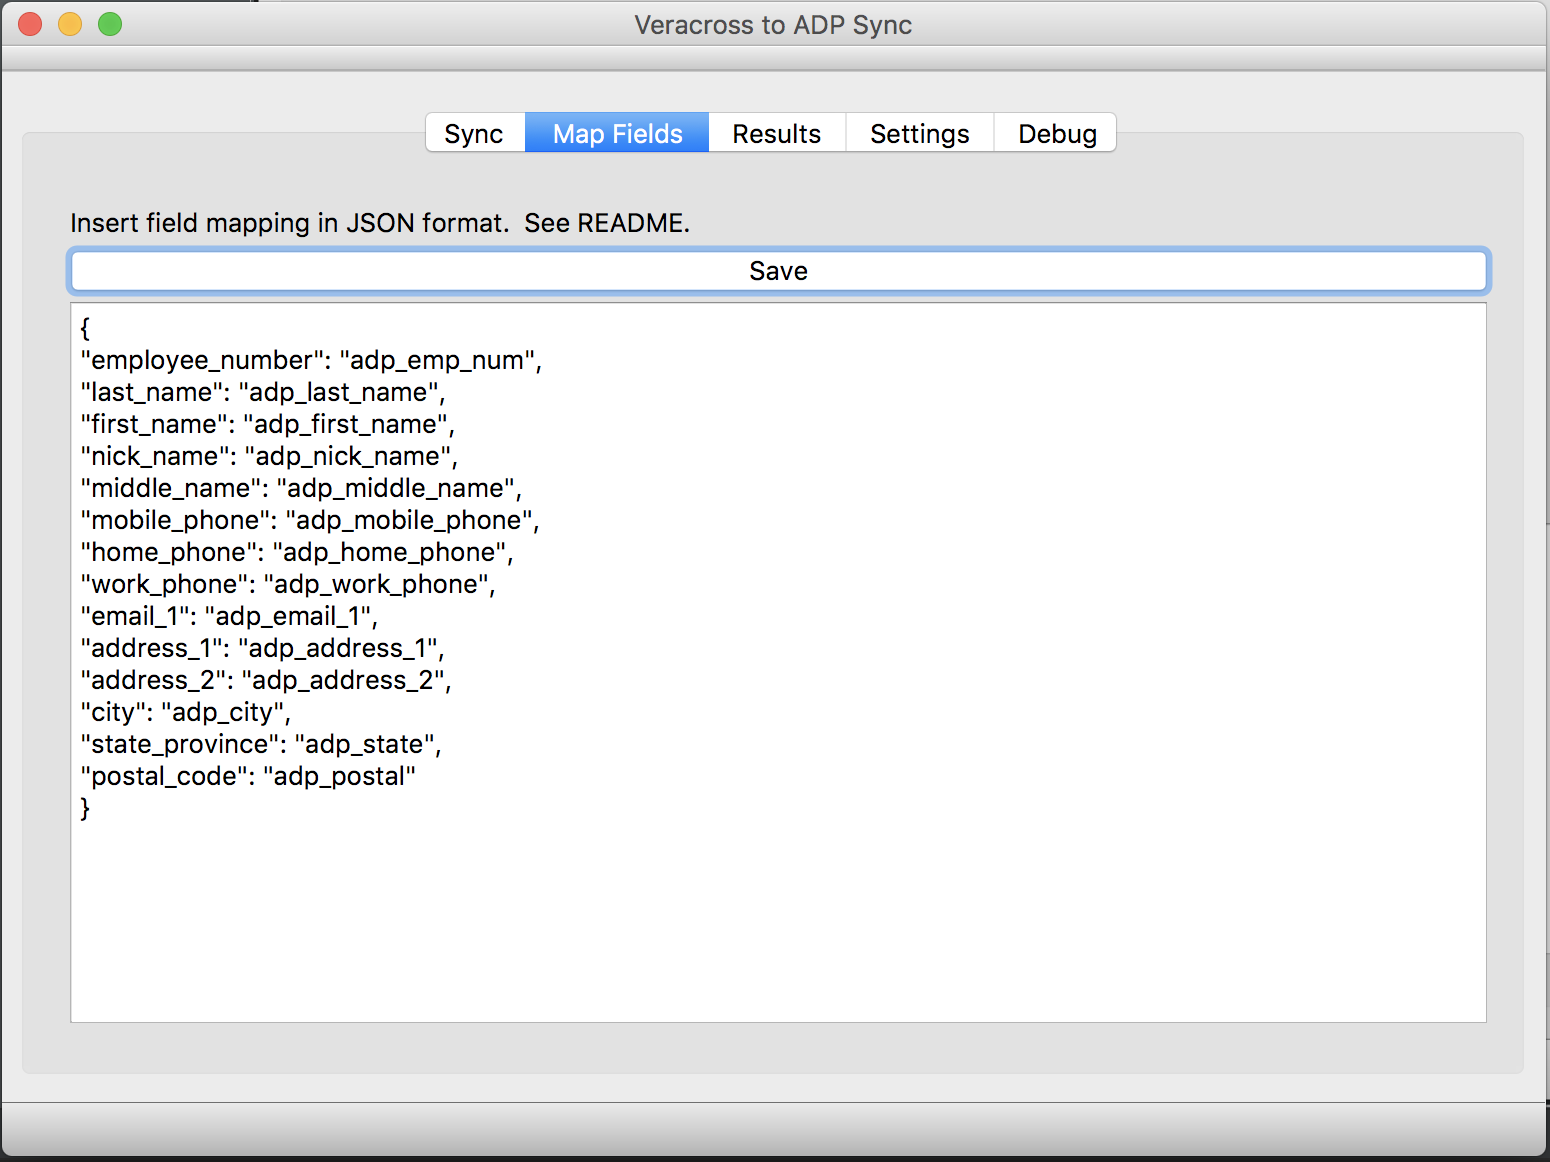
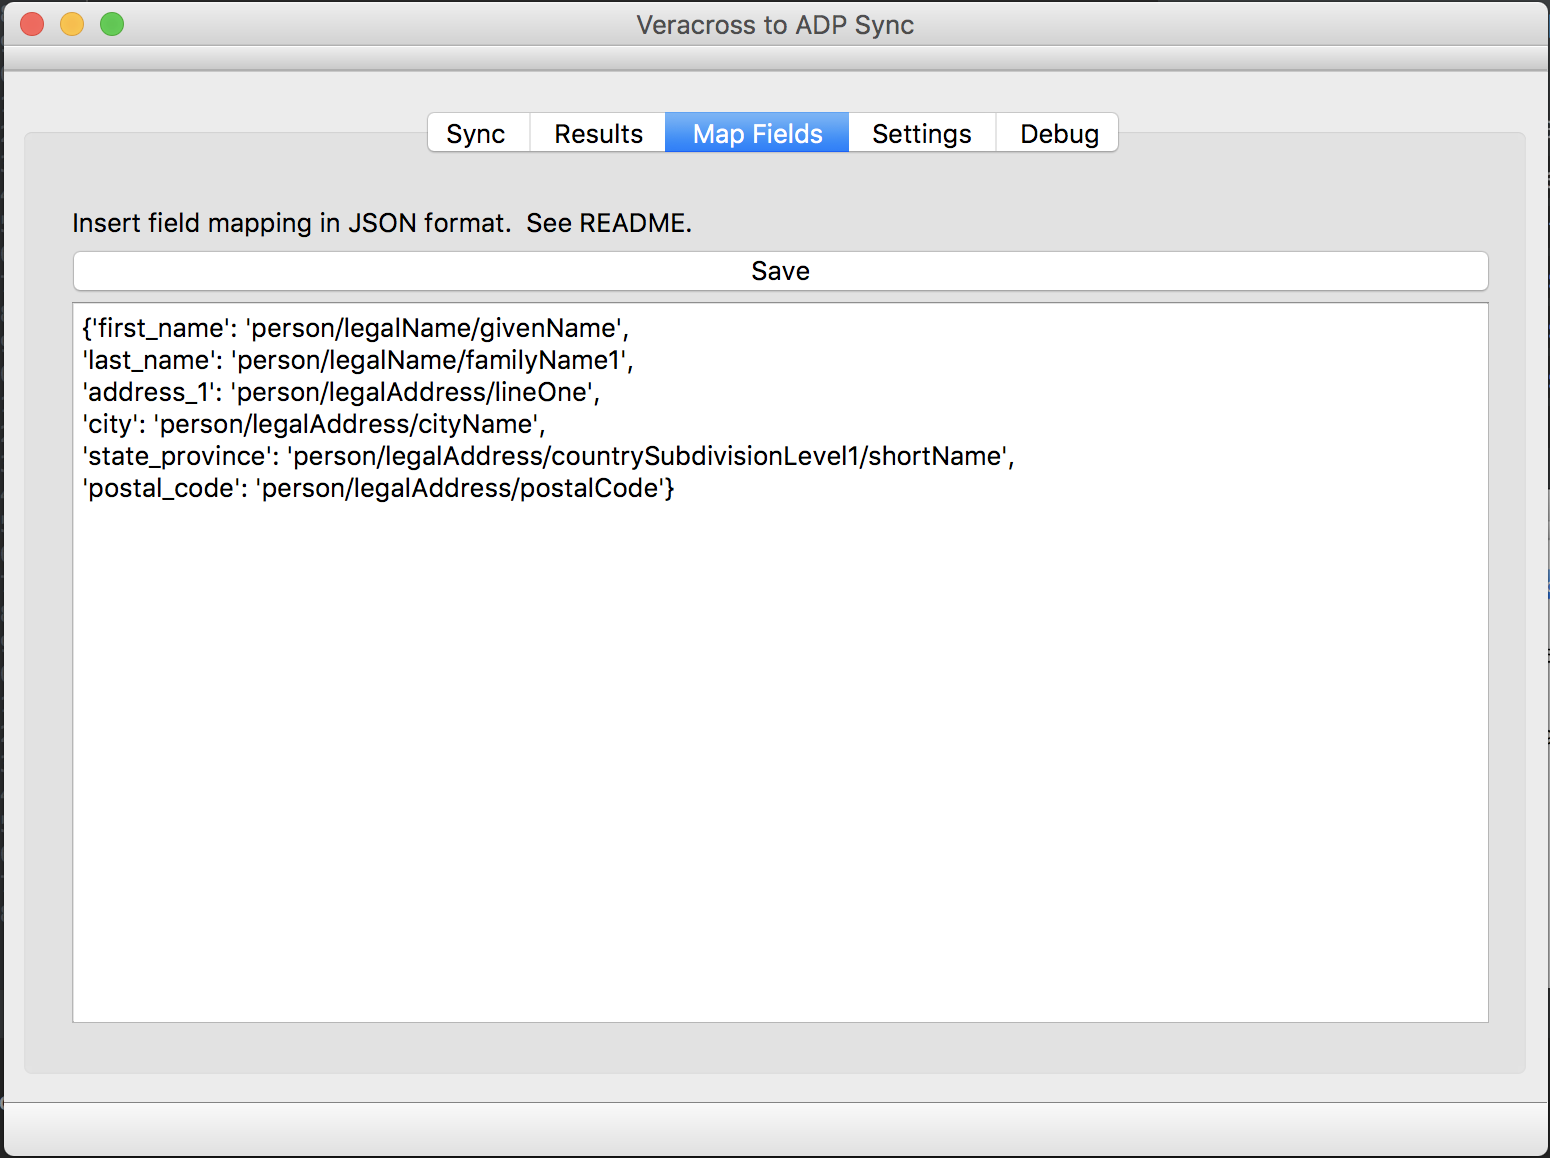
more adp work

diff --git a/main.py b/main.py
@@ -149,7 +149,7 @@ class Main(QtWidgets.QMainWindow):
             self.ui.lineEditXRateLimitResetReading.setText(str(self.vc.rate_limit_reset))
             self.debug_append_log("Veracross data parse complete.")
             self.ui.vcParseStatusLabel.setPixmap(QtGui.QPixmap(":/images/green_status.png"))
-            self.ui.vcResultsTextEdit.setText(str(sorted(d)))
+            self.ui.vcResultsTextEdit.setText(str(d))
             # Enable next step
             self.ui.btn_getADPData.setEnabled(True)
 
@@ -192,7 +192,9 @@ class Main(QtWidgets.QMainWindow):
                     a.update({f: self.get_nested_dict(i, str(field_maps[f]))})
                 d.update({vcid: a})
 
-        self.ui.adpResultsTextEdit.setText(str(sorted(d)))
+        if len(d) > 0:
+            self.ui.adpParseStatusLabel.setPixmap(QtGui.QPixmap(":/images/green_status.png"))
+            self.ui.adpResultsTextEdit.setText(str(d))
 
     def save_settings_button(self):
         """

diff --git a/README.md b/README.md
@@ -26,25 +26,20 @@ PyQT was selected for it's portability between both MacOS and Windows.
     h) Path to key for ADP certificate
 7) Enter field mappings on the Map Fields tab using JSON format. Each key is a Veracross API field mapped to a
 ADP API field.\
-`{
-"employee_number": "adp_emp_num",
-"last_name": "adp_last_name",
-"first_name": "adp_first_name",
-"nick_name": "adp_nick_name",
-"middle_name": "adp_middle_name",
-"mobile_phone": "adp_mobile_phone",
-"home_phone": "adp_home_phone",
-"work_phone": "adp_work_phone",
-"email_1": "adp_email_1",
-"address_1": "adp_address_1",
-"address_2": "adp_address_2",
-"city": "adp_city",
-"state_province": "adp_state",
-"postal_code": "adp_postal"
-}`
+`
+{'first_name': 'person/legalName/givenName', 
+'last_name': 'person/legalName/familyName1',
+'address_1': 'person/legalAddress/lineOne',
+'city': 'person/legalAddress/cityName',
+'state_province': 'person/legalAddress/countrySubdivisionLevel1/shortName',
+'postal_code': 'person/legalAddress/postalCode'}
+`
 
 
 ![Alt text](screenshots/sync.png?raw=true "Sync Tab")
+
+
+![Alt text](screenshots/results.png?raw=true "Results Tab")
 
 
 ![Alt text](screenshots/map_fields.png?raw=true "Map Fields Tab")
